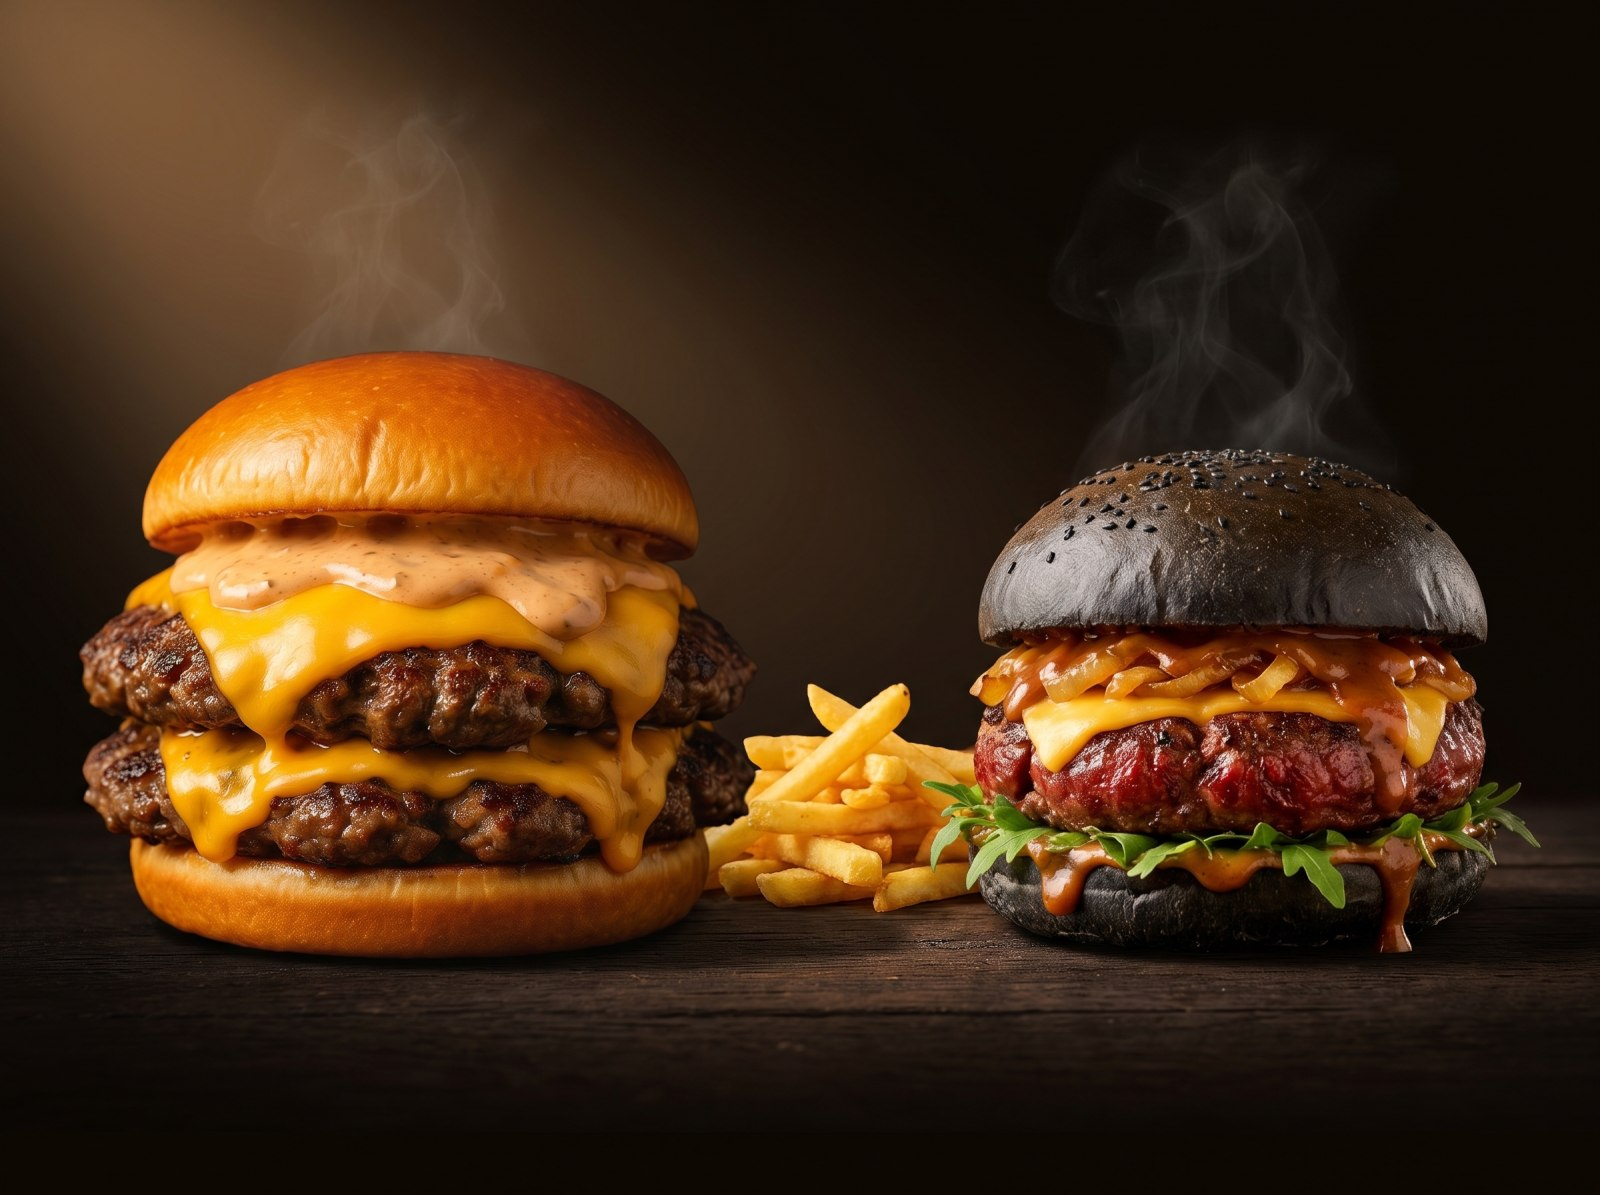
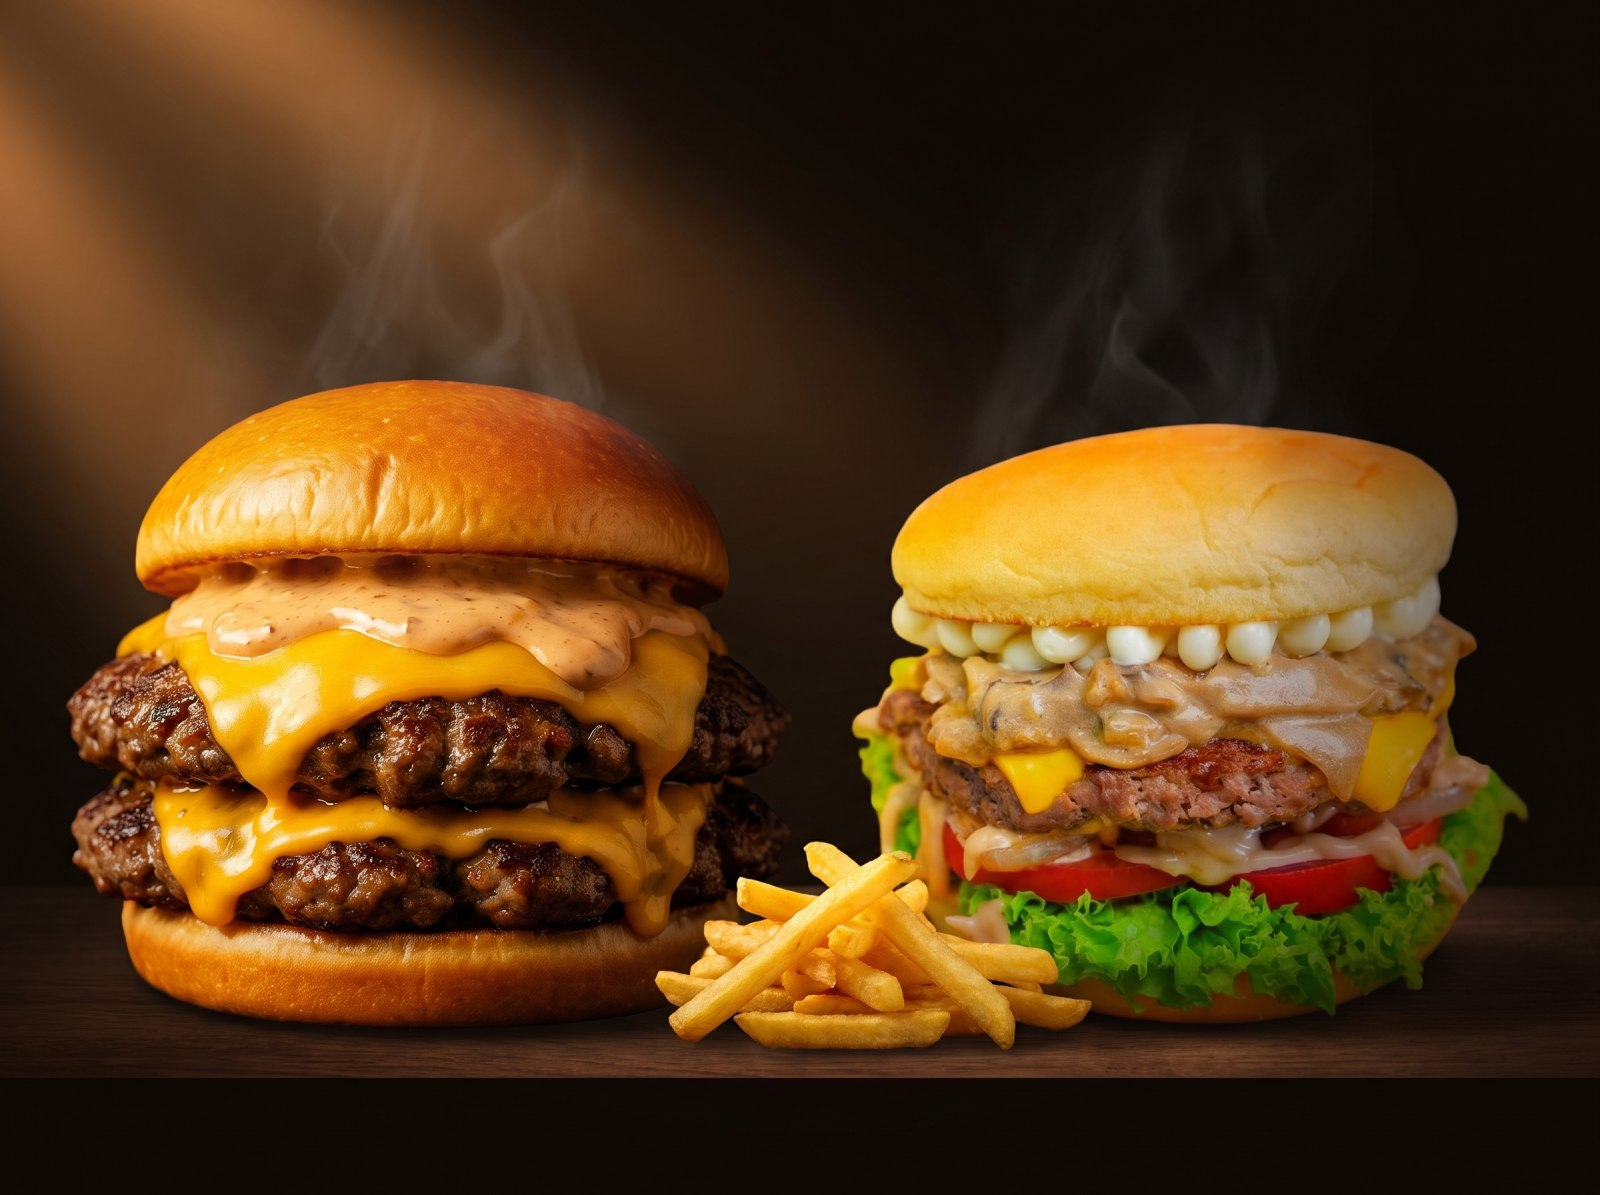
كومبو البطلين: صورة جديدة بالسماش + حاشي المشروم الحقيقيين، والسعر الرسمي ٧٧ د.إ (وجبتان) بدل عرض ٥٥ القديم

diff --git a/index.html b/index.html
@@ -437,7 +437,7 @@
         <article class="ed-card reveal"><div class="pic fallback-host"><img src="assets/edition-1.jpg" alt="حاشي برجراتو بالمشروم" loading="lazy" /></div>
           <div class="body"><h3>حاشي برجراتو بالمشروم</h3><p>لحم حاشي طازج تحت صوص المشروم والبصل الكريمي — وتاج المايونيز علامتنا.</p><span class="tag">وجبة · ٤٥ د.إ</span></div></article>
         <article class="ed-card reveal"><div class="pic fallback-host"><img src="assets/edition-2.jpg" alt="كومبو البطلين" loading="lazy" /></div>
-          <div class="body"><h3>كومبو البطلين</h3><p>سماش + حاشي معاً — للجوع الجماعي.</p><span class="tag hot">عرض · ٥٥ د.إ</span></div></article>
+          <div class="body"><h3>كومبو البطلين</h3><p>سماش + حاشي المشروم معاً — للجوع الجماعي.</p><span class="tag">وجبتان · ٧٧ د.إ</span></div></article>
       </div>
     </div>
   </section>